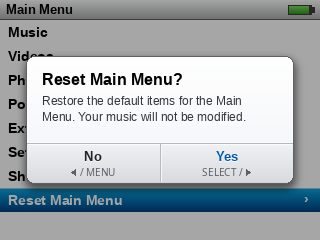
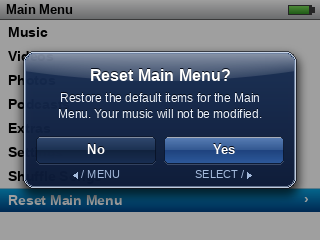
Document 2009 iPhone OS 3 UIAlertView design and 320x240 mockups
Replace the silver modal panel design in docs/podbox/design/dialogs/ with a
procedural 2009 iPhone OS 3 UIAlertView study, side-by-side reference table,
Click Wheel key-legend translation rationale, and updated 320x240 mockups
(translucent midnight-navy glass, curved top specular dome, crisp light rim,
dark-left/steel-blue-right split-gloss capsules, and ~0.3 s scale-overshoot
pop-in).

diff --git a/docs/podbox/design/dialogs/README.md b/docs/podbox/design/dialogs/README.md
@@ -1,54 +1,52 @@
-# Classic / Fruit Company Dialogs (iPod Classic 2.0.5 Style)
+# Classic / Fruit Company Dialogs (2009 iPhone OS 3 UIAlertView Style)
 
-Under `style.dialog=classic` (set by `classic()`, so inherited by Classic, Fruit Company, and Fruit Company Ultra), modal prompts, confirmations, splashes, and pickers use iPod Classic 2.0.5's visual system. Scrim keeps `style.dialog=flat` and stays pixel-identical.
+Under `style.dialog=classic` (set by `classic()`, so inherited by Classic, Fruit Company, and Fruit Company Ultra), interactive modal prompts adopt the visual language of the 2009 iPhone OS 3 `UIAlertView`, translated for AstraPod's 320×240 screen and Click Wheel. Long list pickers stay full-screen stock 2.0.5 pages; transient splashes and quick-adjust overlays keep the dark smoked glossy glass panel. Scrim keeps `style.dialog=flat` and stays pixel-identical.
 
-## Inventory & Forms
+## Reference Study: iPhone OS 3 (2009) `UIAlertView` → 320×240 Click Wheel
+
+All shapes, gradients, gloss domes, rims, and shadows are rendered procedurally in C (no Apple assets, logos, or wordmarks).
+
+| Element | 2009 iPhone OS 3 `UIAlertView` (320×480) | AstraPod 320×240 Translation |
+|---|---|---|
+| **Backdrop** | Dimmed modal scrim (~40–50% black) keeping the screen underneath visible | Full-screen `ui_sheet_dim()` (~35% dim) keeping underlying menu, split pane, and status bar intact and visible |
+| **Container width & radius** | 284 px wide on 320 px display (18 px side margins), ~10–12 px corner radius | 272–282 px wide on 320×240 (19–24 px side margins), `r = 10`, vertically centred with dimmed margins on all four sides |
+| **Panel material** | Translucent midnight-navy glass (`#1a325c` → `#0c1b3a`, ~86–90% opacity) | Procedural translucent midnight-navy gradient (`0xdc1a325c` → `0xe80c1b3a`) over the dimmed backdrop |
+| **Top specular gloss** | Signature curved elliptical white gloss dome sweeping across the upper ~26–30 px | Procedural parabolic/elliptical specular dome clipped to the `r = 9` top corners (18 px edge depth dipping to 28 px at centre, fading ~43% → 12% white with 1 px antialiased edge) |
+| **Border & drop shadow** | Crisp ~2 px translucent light silver-blue rim + outer dark hairline over a deep drop shadow | `gloss_shadow(..., r=10, depth=8, drop=4, alpha=165)` + dark outer hairline + 2 px translucent silver-blue glass rim (`0xd8dce8f8` / `0x70c6d8f2`) |
+| **Typography** | Centred white Helvetica Bold title + regular message text with `0, -1 px` dark text shadow | Centred white `17-helvetica-bold` title + `#eaf0fa` `13-helvetica` message lines (left-aligned for scrollable prose), all with `dy = -1` `#040a18` shadow |
+| **Buttons (2 vs 3 choices)** | 2009 HIG: two choices sit side-by-side (**Cancel** darker navy on left, **Default** lighter steel-blue on right, ~43–44 px tall on 320×480); 3+ choices stack vertically full-width | Scaled to 320×240: `h = 28 px`, `r = 5`, two-half split-gloss capsules (darker navy on left, brighter steel-cerulean on right, 8 px gap). USB consent uses stacked full-width 28 px capsules (Connect primary on top, Charge Only & optional Remote Control below) |
+| **Pop-in & dismiss motion** | `CAKeyframeAnimation` on `transform.scale` (~0.3 s): rapid pop-in with elastic overshoot then settle (`~0.6 → 1.07 → 0.97 → 1.0`), quick fade-out on dismiss | `ui_sheet_paint_zoom()` with `sheet.bounce = true`: 20 frames (~300 ms at 67 Hz) scaling `0.62 → 1.07 → 0.97 → 1.00` with fast opacity ramp; 9-frame (~135 ms) fade-out + shrink (`1.00 → 0.94`) restoring exact underlying pixels with zero flash |
+
+### Click Wheel Translation & Tactile Balance
+
+A 2009 `UIAlertView` is immediately recognizable by its translucent navy glass dome and glossy side-by-side capsules, yet an iPod Classic has no touchscreen. To keep the 2009 aesthetic authentic without inviting wheel-scrolling or misleading finger-tap cues:
+
+1. **No fake cursor or wheel focus ring:** neither button carries a movable highlight or selection bar, because the wheel never moves a selection on two- or three-choice prompts.
+2. **Quiet Click Wheel legends paired with each capsule:** on two-choice alerts (`yesno`, `dialog_prose_confirm`, `keyboard`), the glossy 28 px capsules keep the clean 2009 proportions (centred bold white label only), while a muted ice-blue (`#a4badc`) legend sits directly underneath each capsule (`◀ / MENU` under the left button, `SELECT / ▶` under the right button). On stacked USB consent capsules, the quiet key label (`SELECT`, `MENU`, `▶ RIGHT`) sits left-aligned inside each row opposite the centred action name.
+3. **One-press answers everywhere:** every 2- and 3-choice dialog responds to a single hardware button press; **LEFT** and **RIGHT** act directly on dialogs in Fruit Company and Fruit Company Ultra as well as Classic, while **PLAY** stays playback control.
+
+## Inventory, Forms & Keys
 
 | Dialog / Splash | Classic / Fruit form | Keys (Classic & Fruit) |
 |---|---|---|
-| Yes/No confirmations (`yesno.c`) | Centred silver-and-white modal pop-up over dimmed screen, fade + zoom | **LEFT** / **MENU** = No (left); **RIGHT** / **SELECT** = Yes (right). Custom labels (`back_cancels`): **LEFT** = left option, **RIGHT** / **SELECT** = right option, **MENU** = cancel. **PLAY** = playback |
-| USB Disk Mode consent (`usb_confirm.c`) | Centred silver-and-white modal pop-up over dimmed screen, fade + zoom | **SELECT** = Connect, **MENU** = Charge Only, **RIGHT** = Remote Control (when playing + handoff capable), **PLAY** = playback |
-| Prose show (`dialog_prose_show`) | Centred silver-and-white modal pop-up over dimmed screen, fade + zoom | Wheel scrolls text; **SELECT** / **MENU** / **LEFT** / **RIGHT** dismiss; **PLAY** = playback |
-| Prose confirm (`dialog_prose_confirm`) | Centred silver-and-white modal pop-up over dimmed screen, fade + zoom | Wheel scrolls text; **LEFT** / **MENU** = left option (cancel); **RIGHT** / **SELECT** = right option (accept); **PLAY** = playback |
-| Single-line text input (`keyboard.c`) | Centred silver-and-white modal pop-up over dimmed screen, fade + zoom | Wheel cycles character; **LEFT** / **RIGHT** move caret (hold = backspace / delete); **SELECT** = OK; **MENU** = Cancel |
-| Time/date & colour pickers (`time_set.c`, `color_picker.c`) | Centred silver-and-white modal pop-up over dimmed screen, fade + zoom | Grid navigation (>3 choices): wheel edits value, **LEFT** / **RIGHT** / **MENU** / **PLAY** move cells, **SELECT** confirms, hold **MENU** cancels |
+| Yes/No confirmations (`yesno.c`) | Centred 2009 navy glass alert pop-up over dimmed screen, bounce pop-in | **LEFT** / **MENU** = No (left, dark capsule); **RIGHT** / **SELECT** = Yes (right, lighter steel-blue capsule). Custom labels (`back_cancels`): **LEFT** = left option, **RIGHT** / **SELECT** = right option, **MENU** = cancel. **PLAY** = playback |
+| USB Disk Mode consent (`usb_confirm.c`) | Centred 2009 navy glass alert pop-up + stacked full-width capsules, bounce pop-in | **SELECT** = Connect (top steel-blue), **MENU** = Charge Only, **RIGHT** = Remote Control (when playing + handoff capable), **PLAY** = playback |
+| Prose show (`dialog_prose_show`) | Centred 2009 navy glass alert pop-up + centred steel-blue `OK` capsule + quiet key/scroll hints | Wheel scrolls text; **SELECT** / **MENU** / **LEFT** / **RIGHT** dismiss; **PLAY** = playback |
+| Prose confirm (`dialog_prose_confirm`) | Centred 2009 navy glass alert pop-up + side-by-side capsules & quiet key legends | Wheel scrolls text; **LEFT** / **MENU** = left option (cancel); **RIGHT** / **SELECT** = right option (accept); **PLAY** = playback |
+| Single-line text input (`keyboard.c`) | Centred 2009 navy glass alert pop-up + white recessed text field + `Cancel` / `OK` capsules (`MENU` / `SELECT` legends) | Wheel cycles character; **LEFT** / **RIGHT** move caret (hold = backspace / delete); **SELECT** = OK; **MENU** = Cancel |
+| Time/date & colour pickers (`time_set.c`, `color_picker.c`) | Centred 2009 navy glass alert pop-up, bounce pop-in | Grid navigation (>3 choices): wheel edits value, **LEFT** / **RIGHT** / **MENU** / **PLAY** move cells, **SELECT** confirms, hold **MENU** cancels |
 | Search dialog (`search_dialog.c`) | Full-screen white stock page + 20 px silver status bar + top recessed search band + blue selection rows, horizontal slide | Standard search keyboard + list navigation |
 | Folder selector (`folder_select.c`) | Full-screen white stock page + 20 px silver status bar + blue selection rows, horizontal slide | Wheel moves row, **SELECT** expands/collapses, hold **SELECT** includes/excludes, **MENU** exits |
-| Timed & progress splashes (`splash.c`, `sound_scan.c`) | Centred dark smoked glossy glass pop-up over dimmed screen, fade + zoom | Transient / any key dismisses result |
-| Star rating overlay (`rating_dialog.c`) | Centred dark smoked glossy glass pop-up over dimmed screen, fade + zoom | Wheel adjusts half-stars, **SELECT** saves, hold **SELECT** clears, **MENU** cancels |
+| Timed & progress splashes (`splash.c`, `sound_scan.c`) | Centred dark smoked glossy glass pop-up over dimmed screen, calm fade + zoom | Transient / any key dismisses result |
+| Star rating overlay (`rating_dialog.c`) | Centred dark smoked glossy glass pop-up over dimmed screen, calm fade + zoom | Wheel adjusts half-stars, **SELECT** saves, hold **SELECT** clears, **MENU** cancels |
 | Extras Clocks action overlay (`extras_clock.c`) | Stock `System_Overlay` + `OptionBar_Black` bitmaps (unchanged) | Stock Clocks keys |
 | Control Centre / Quick Screen (`quick_screen.c`) | Leopard HUD (`style.quick_screen=hud`, unchanged) | Quick Screen keys |
 
-## Visual Forms & Transitions
+## 320×240 Design Mockups
 
-### 1. Interactive modal pop-up (`yesno.c`, `usb_confirm.c`, `dialog_prose.c`, `keyboard.c`, `time_set.c`, `color_picker.c`)
-
-Short interactive prompts float over the current screen rather than replacing it with a full-screen page:
-
-- **Backdrop & motion:** the underlying screen stays visible, dimmed smoothly via `ui_sheet_dim()`, while the panel enters and leaves with `ui_sheet_paint_zoom()` (12 frames ~180 ms open, 9 frames ~135 ms close, gentle scale + fade — matching the glass splashes). Dismissal restores the exact pixels underneath with no status bar rewrite or flash.
-- **Panel chrome:** rounded porcelain-white panel (`r = 8`), soft drop shadow, crisp `1 px` `#5e6268` outer rim with an inner white highlight. Titled dialogs carry a `24 px` brushed-silver title strip at the top.
-- **Quiet key-hint footer:** a brushed-silver footer band with hairline dividers displays each option and its Click Wheel key (`◀ / MENU` on the left, `SELECT / ▶` on the right for two-choice prompts; aligned `SELECT`, `MENU`, `▶ RIGHT` rows for USB consent). Labels use crisp typography (charcoal for secondary/No, deep Classic Aqua blue `#0058b0` for primary/Yes) with no raised pills or movable focus bars that look tappable.
-
-![Yes/No modal pop-up](01-yesno-popup.png)
-![USB Disk Mode consent pop-up](02-usb-consent.png)
-![Prose confirmation pop-up](05-modal-dialog.png)
-
-### 2. Full-screen stock list pickers (`search_dialog.c`, `folder_select.c`)
-
-Long list pickers take the full screen below the 20 px silver status bar (`UI_MOTION_PUSH` / `UI_MOTION_POP` horizontal slide) with full-width `UI_GRADIENT_SELECTION` bars and wheel-to-select list behaviour.
-
+![Yes/No 2009 alert pop-up](01-yesno-popup.png)
+![USB Disk Mode consent 2009 alert pop-up](02-usb-consent.png)
+![Prose confirmation 2009 alert pop-up](05-modal-dialog.png)
 ![Search full-screen page](06-search-fullscreen.png)
-
-### 3. Centred dark glossy glass panel (`splash.c`, `rating_dialog.c`, `sound_scan.c`, rotated `d->fb` prose)
-
-Brief transient notices, progress meters, and quick-adjust overlays use the smoked translucent dark glass panel (`r = 10`, specular gloss top band, white shadow text, glossy Aqua progress bar) with the same fade + zoom transition.
-
 ![Transient splash notice](03-splash-notice.png)
 ![Progress splash](04-splash-progress.png)
-
-## One-Press Key Rules
-
-- Every dialog with two or three choices answers in **one key press**, never wheel-then-SELECT.
-- Two-choice side-by-side prompts place **No / Cancel** on the **LEFT** and **Yes / Accept** on the **RIGHT**: **LEFT** activates the left choice, **RIGHT** activates the right choice, and **SELECT** / **MENU** keep their direct accept / cancel bindings.
-- Dialogs are modal prompts rather than navigation pages, so **LEFT** and **RIGHT** act on the dialog in Fruit Company and Fruit Company Ultra as well as Classic; **PLAY** remains playback control (play/pause).
-- Dialogs with more than three choices (lists, search, grid pickers, star rating) keep wheel-to-select plus **SELECT**.
